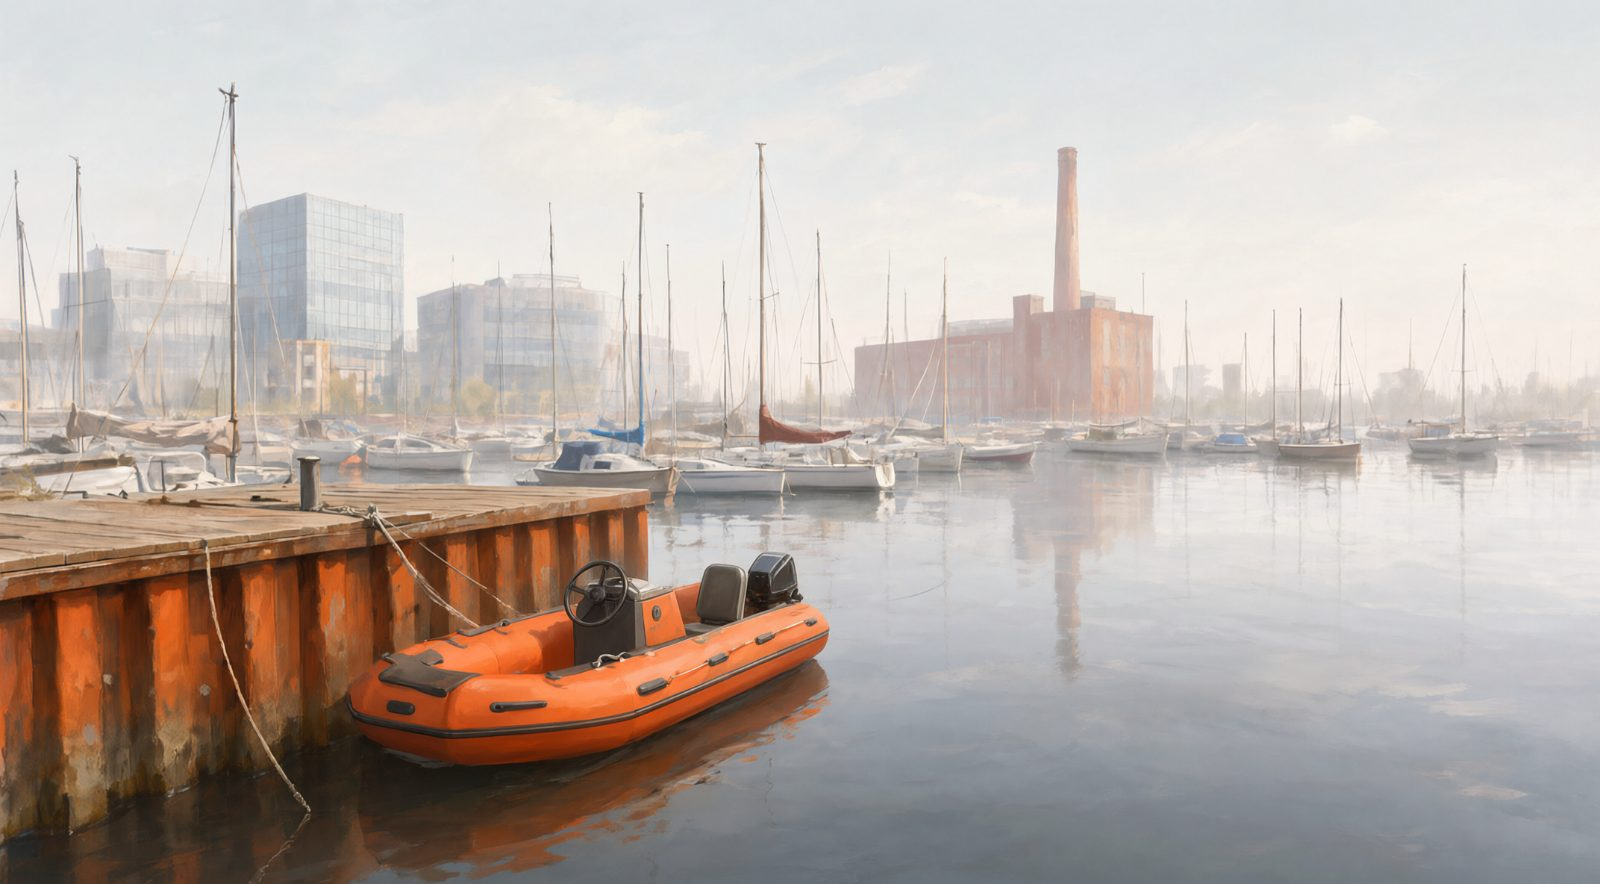
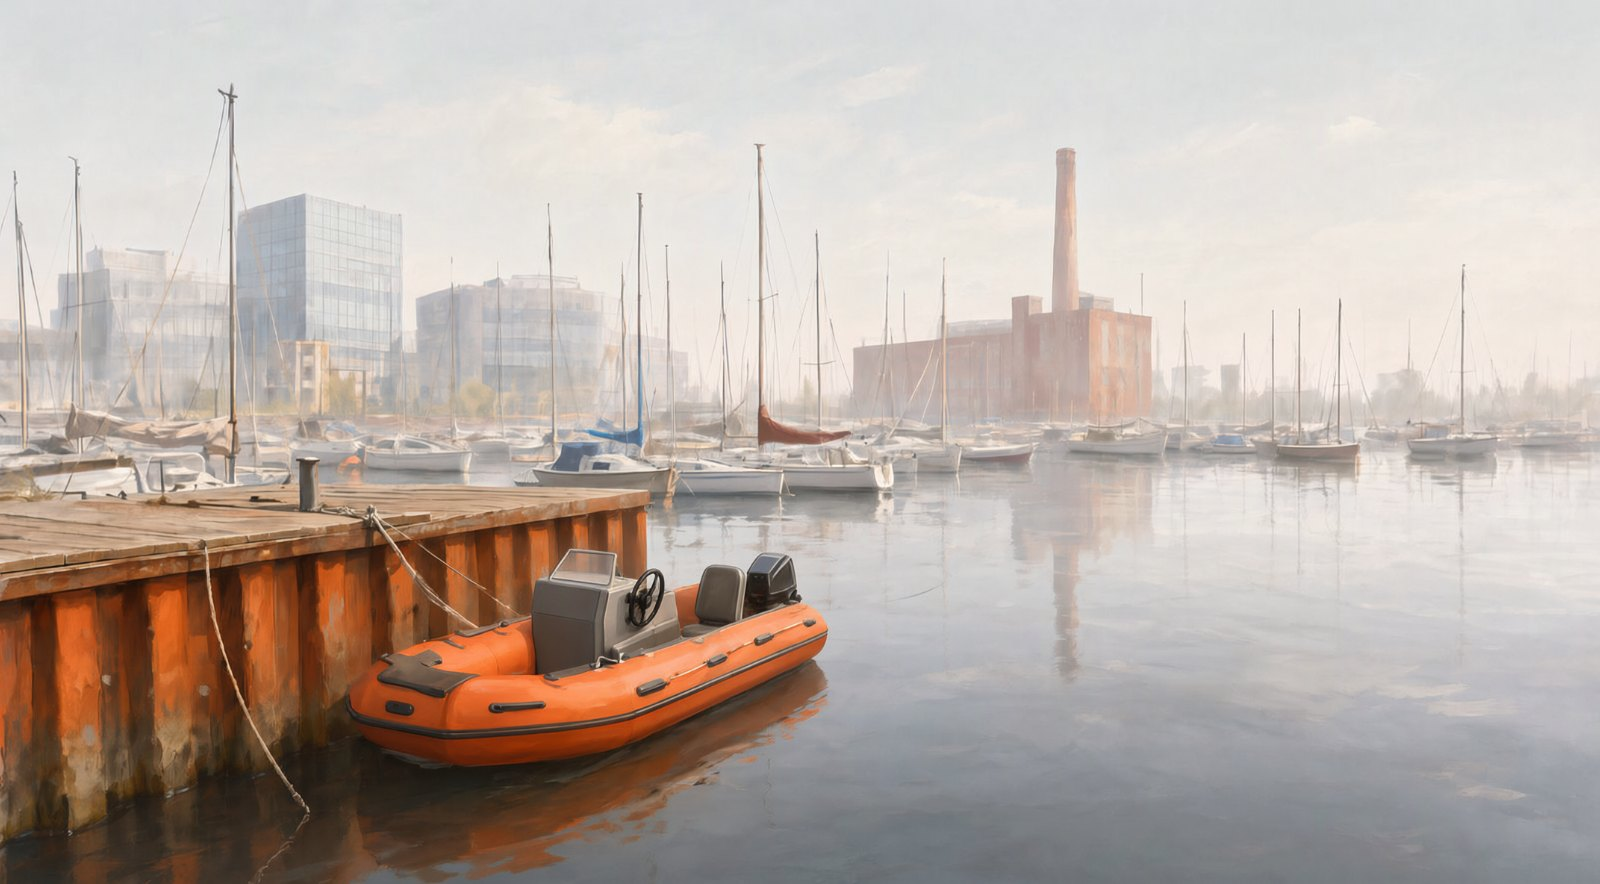
Credits link to kossejlsport.dk; RIB console fixed in both hub backgrounds
The portrait hub background (what phones show) still had the old box console, and the landscape fix had
the wheel on the bow-facing side. Both rebuilt with Qwen-Image edit: windscreen forward, wheel on the
aft face, seat between console and outboard.

Claude-Session: https://claude.ai/code/session_018V3eGUb9BUcD86GgU6dBSv

diff --git a/js/ui/app.js b/js/ui/app.js
@@ -1124,7 +1124,7 @@
       '<div class="credits-logo">' + logoSvg() + '</div>' +
       '<section class="panel glass"><p class="lead">' + esc(t('app.credits.lead')) + '</p></section>' +
       '<section class="panel glass"><h2>' + ico('heart') + esc(t('app.credits.made')) + '</h2>' +
-      '<ul class="credit-list"><li><b>' + esc(t('app.credits.club')) + '</b><span>KØS Sejlsport · Svaneknoppen</span></li>' +
+      '<ul class="credit-list"><li><b>' + esc(t('app.credits.club')) + '</b><span><a class="credit-link" href="https://kossejlsport.dk" target="_blank" rel="noopener">KØS Sejlsport</a> · Svaneknoppen</span></li>' +
       '<li><b>' + esc(t('app.credits.code')) + '</b><span>' + esc(t('app.credits.codeWho')) + '</span></li>' +
       '<li><b>' + esc(t('app.credits.thanks')) + '</b><span>' + esc(t('app.credits.thanksWho')) + '</span></li></ul></section>' +
       '<section class="panel glass safety"><h2>' + ico('life') + esc(t('app.credits.safetyTitle')) + '</h2><p>' + esc(t('app.credits.safety')) + '</p></section>' +

diff --git a/css/style.css b/css/style.css
@@ -407,6 +407,7 @@ body.mode-sea[data-screen="play"] #menu-bg, body.results-over-sea #menu-bg { dis
 .credit-list li { display: flex; flex-direction: column; }
 .credit-list b { color: var(--primary); font-size: .85rem; text-transform: uppercase; letter-spacing: .06em; }
 .credit-list span { font-weight: 700; }
+.credit-link { color: inherit; text-decoration: underline; text-decoration-color: var(--primary); text-underline-offset: 3px; }
 .safety { border-color: rgba(255, 122, 61, .45); }
 .coach-inline { display: flex; align-items: center; gap: 14px; justify-content: center; font-weight: 800; font-size: 1.1rem; }
 .coach-inline svg { width: 72px; height: 72px; animation: bob 3s ease-in-out infinite; }

diff --git a/sw.js b/sw.js
@@ -3,7 +3,7 @@
 // A new VERSION (hash of all files) installs a new cache; the page shows a "new version" toast and posts
 // {type: 'skipWaiting'} when the player taps "Opdater".
 // <precache> generated by tools/gen-precache.js - do not edit by hand
-const VERSION = '483c647689e7';
+const VERSION = '093dba579fe7';
 const PRECACHE = [
   'index.html',
   'manifest.webmanifest',
